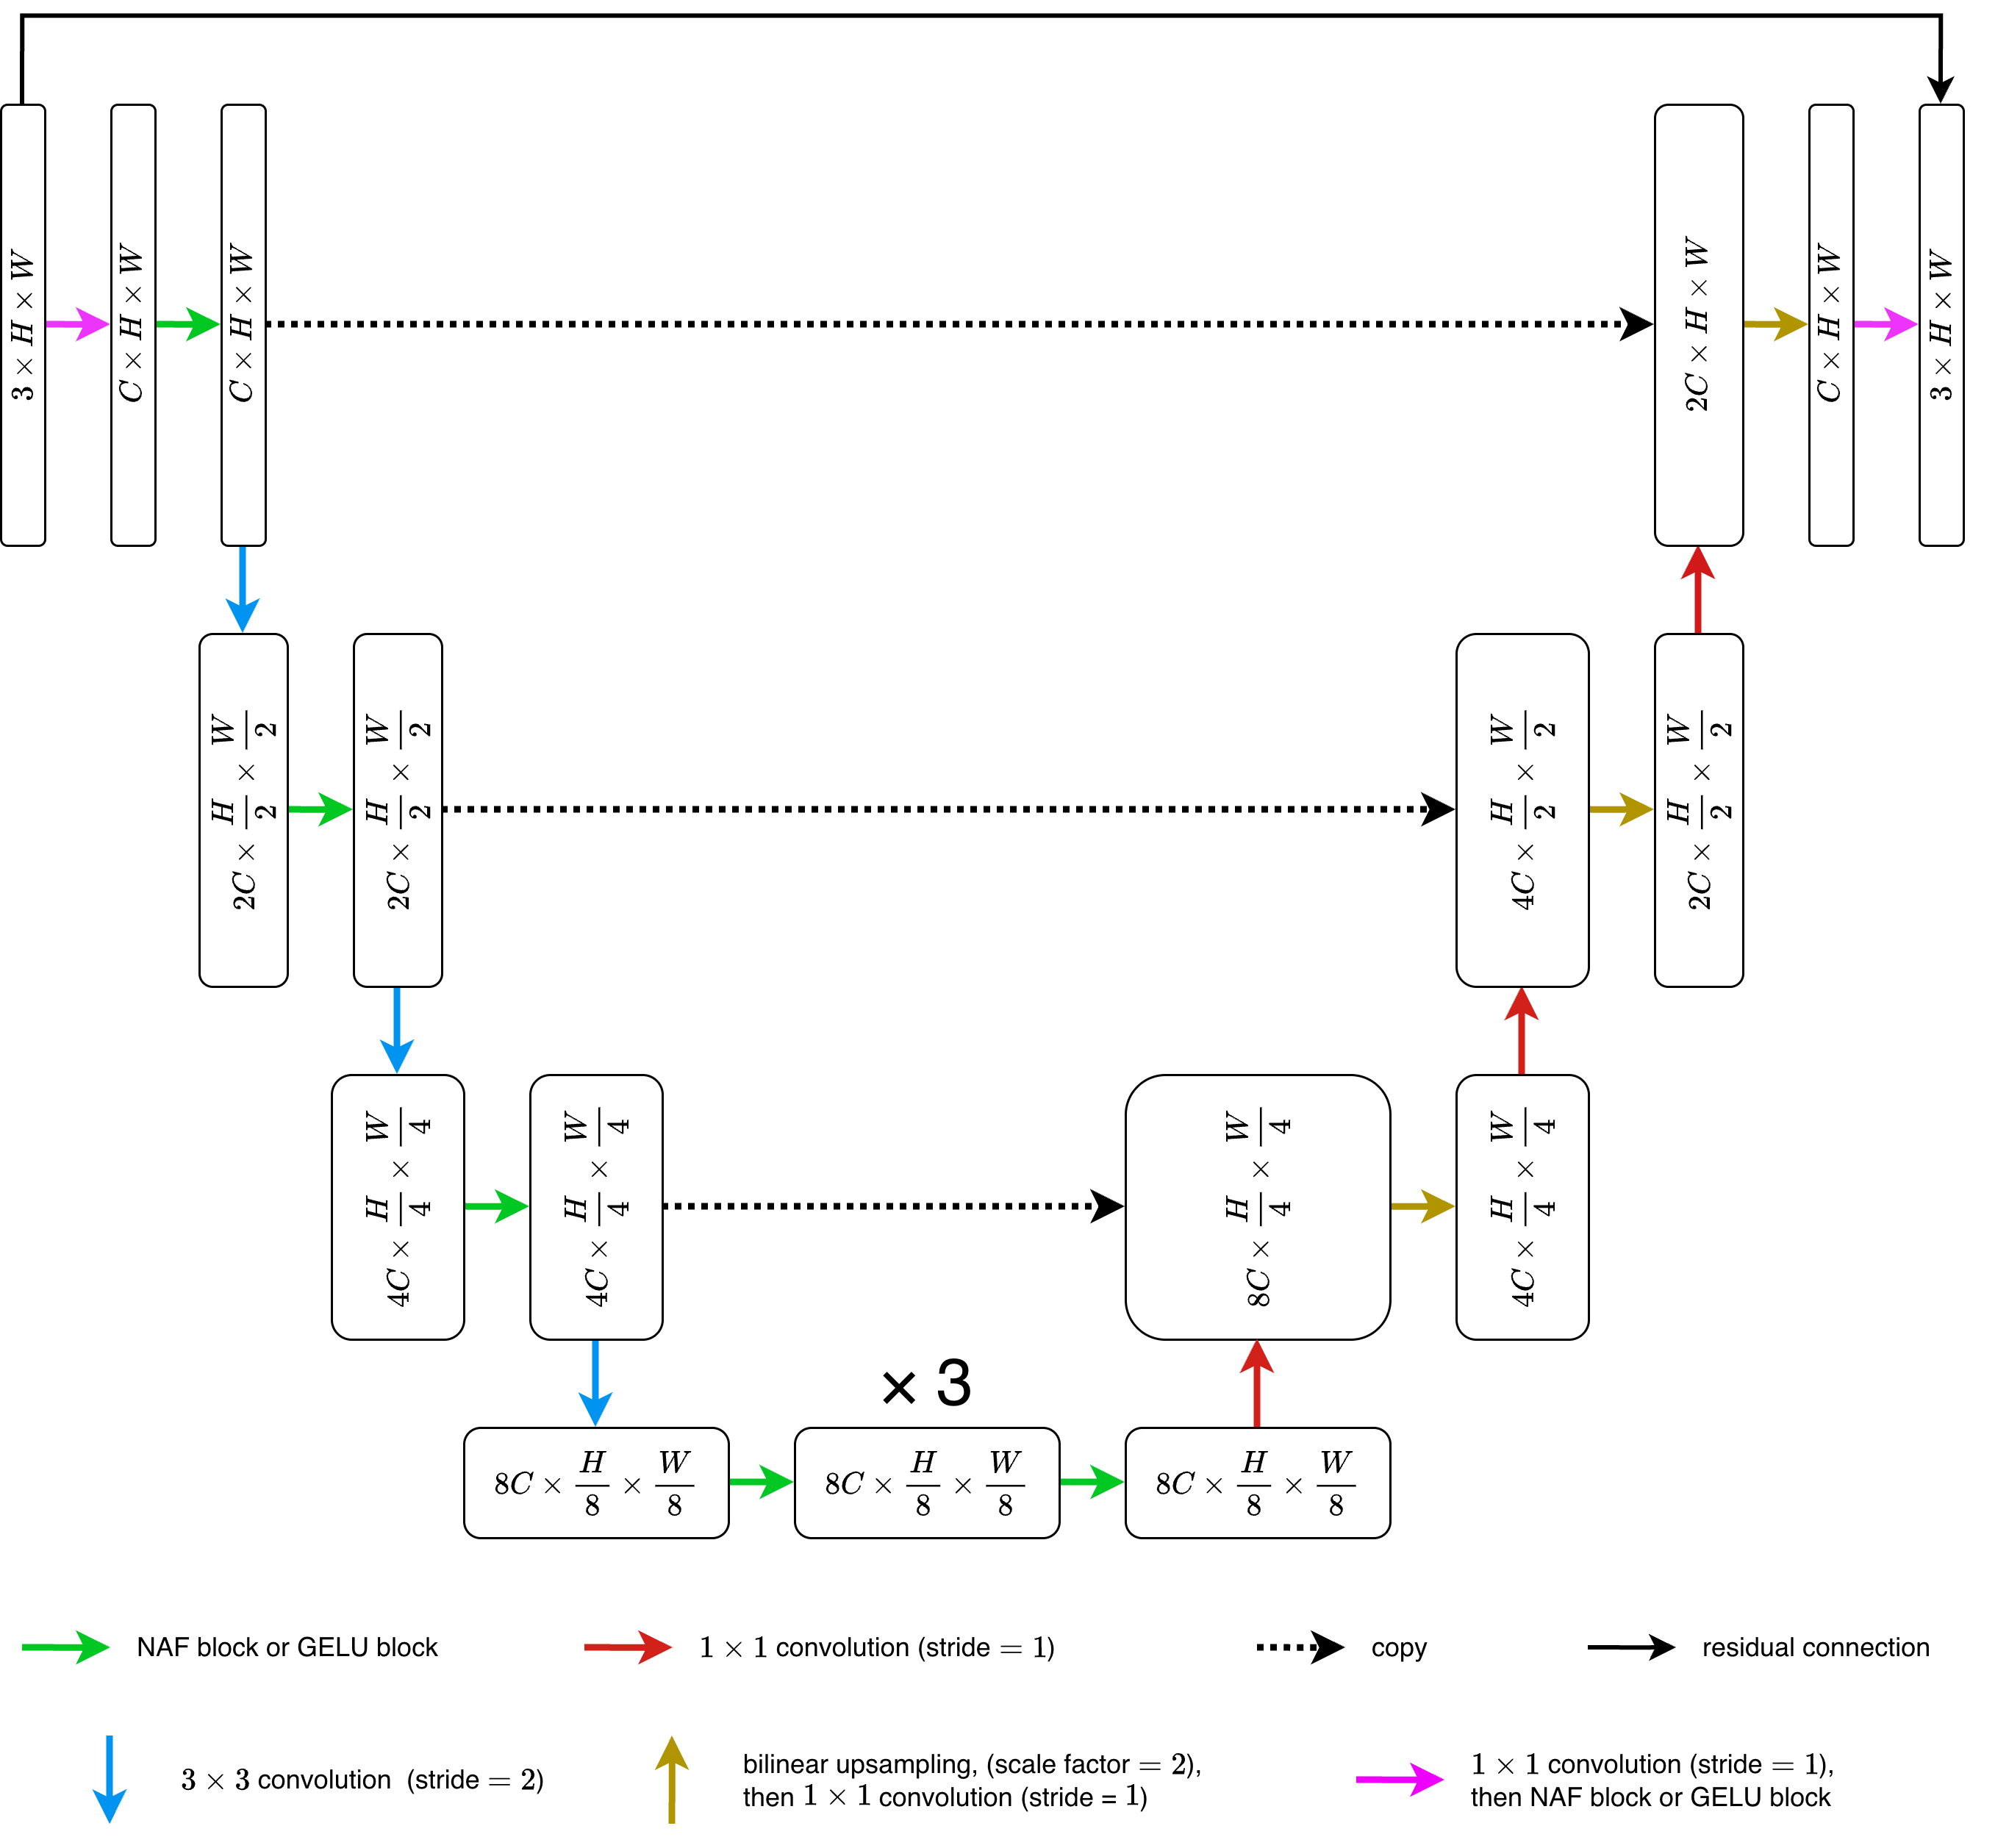
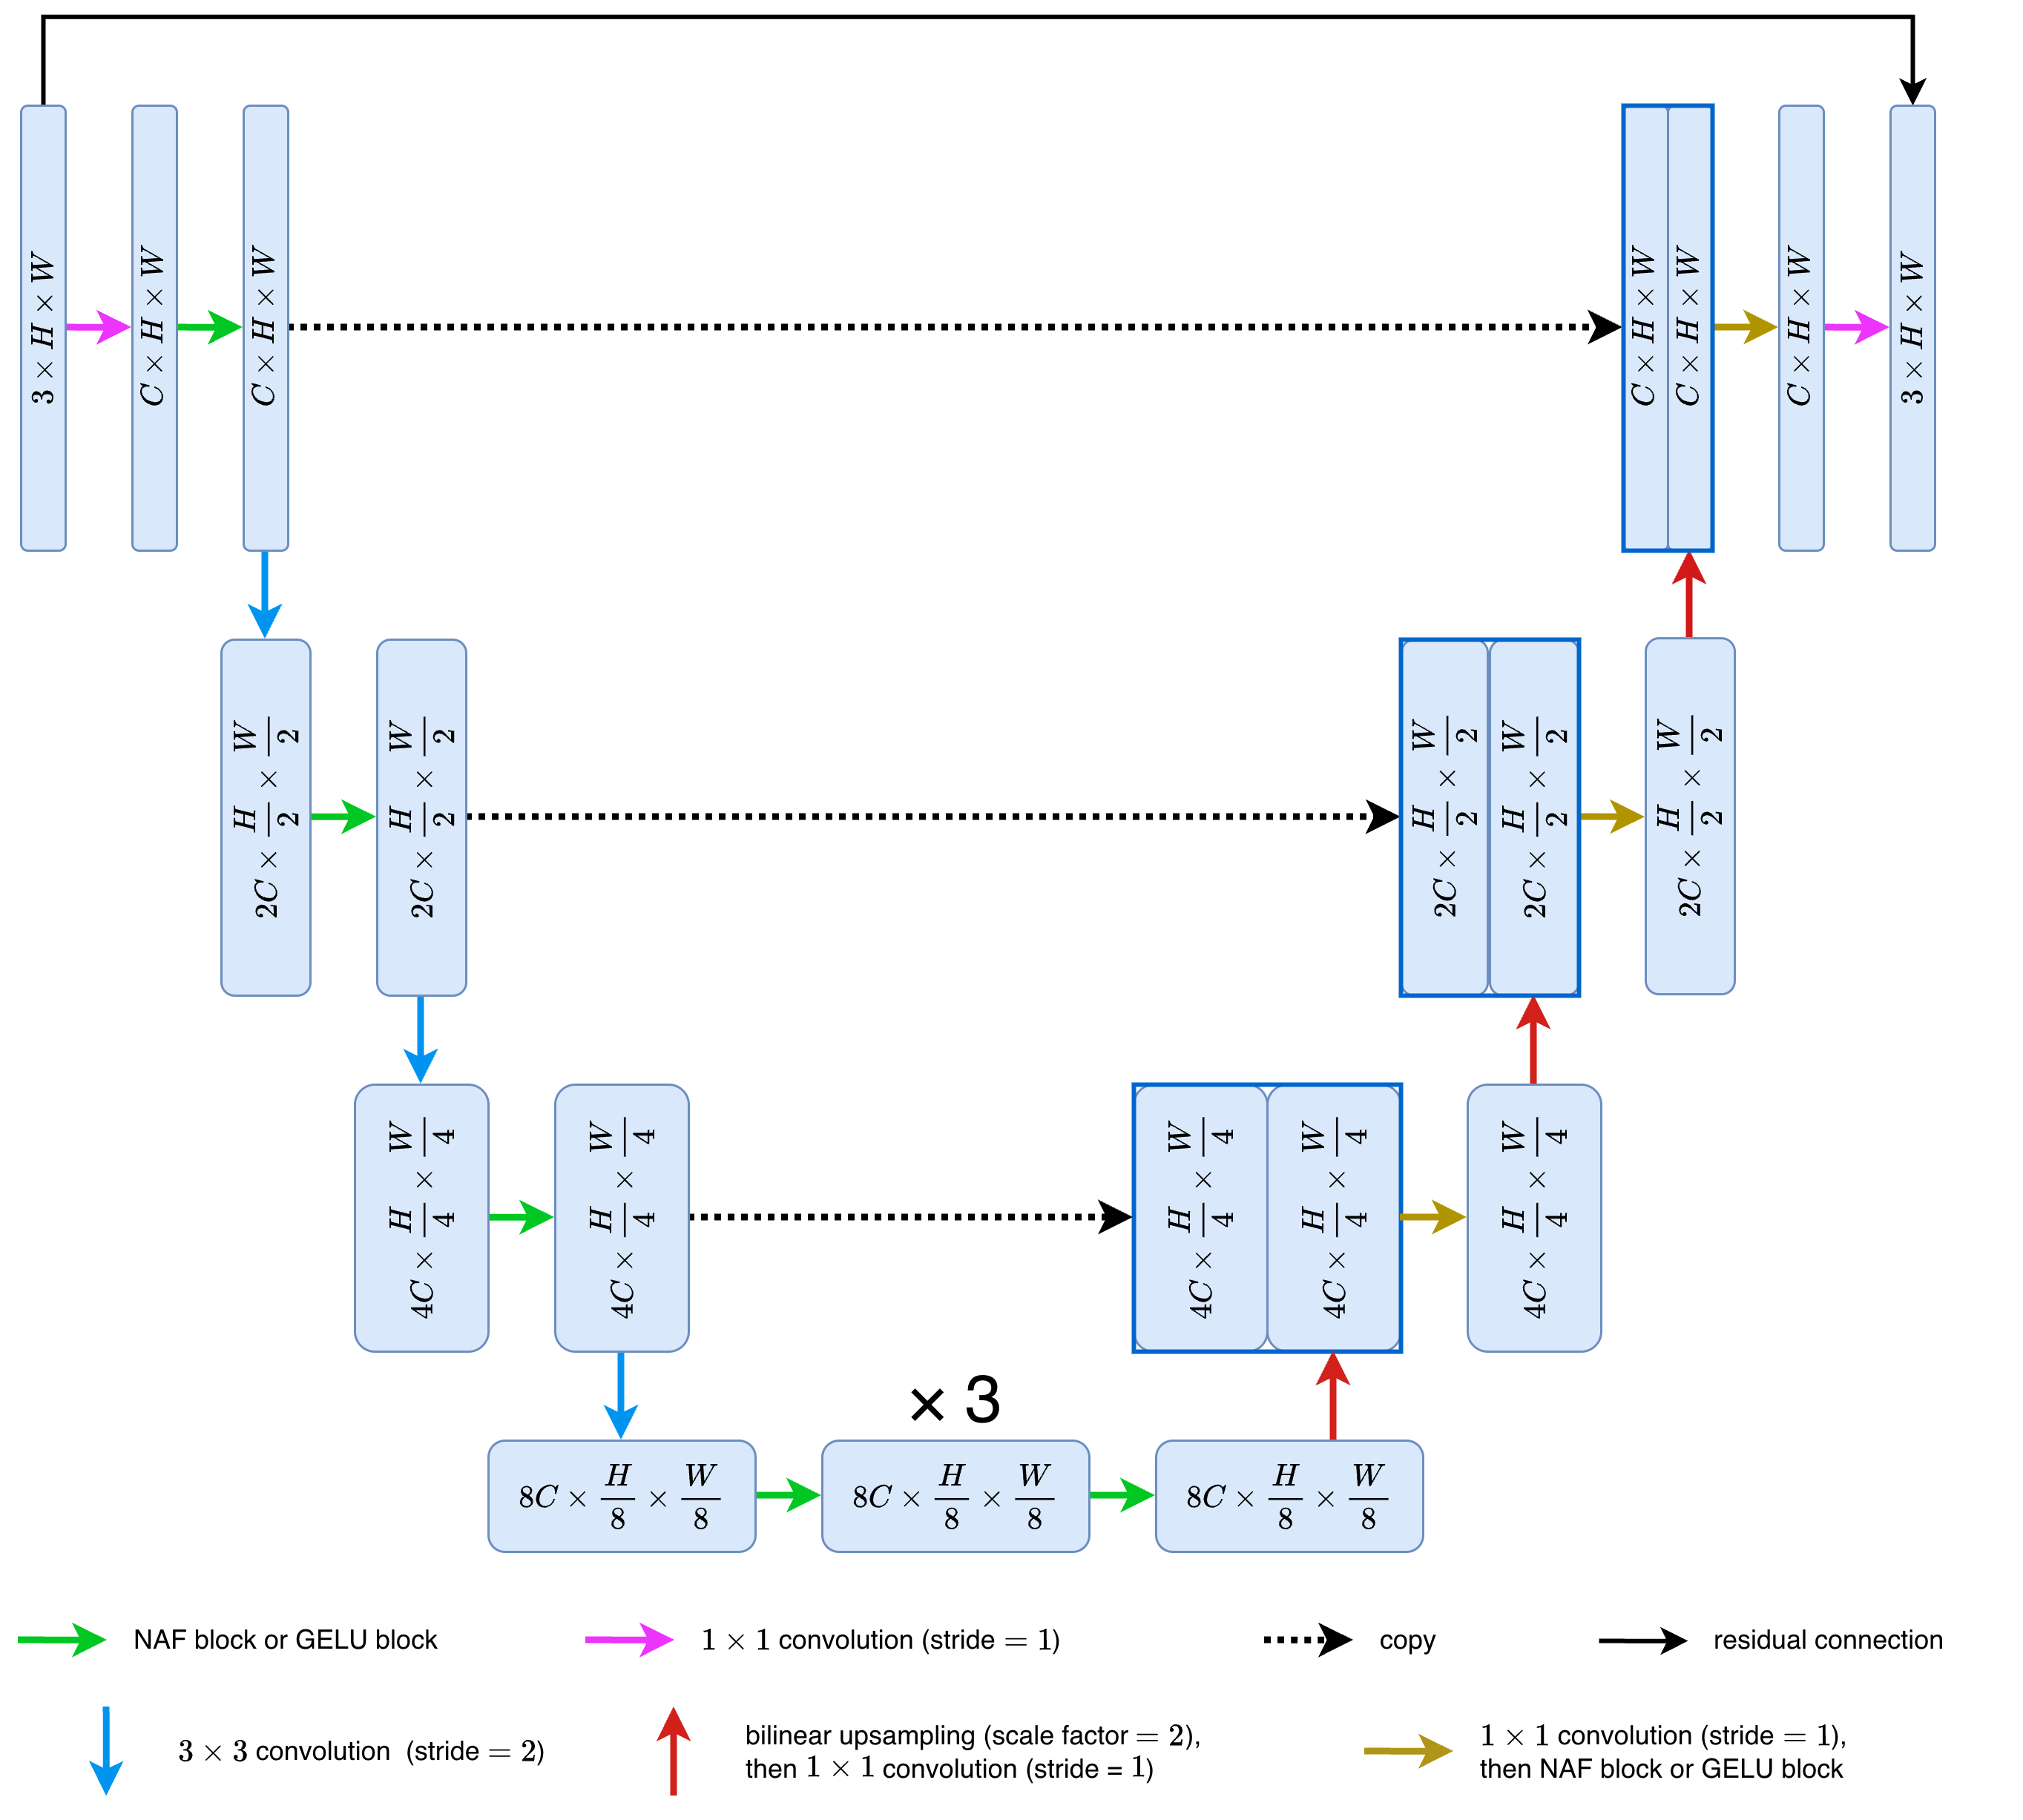
update

diff --git a/deblurring/index.html b/deblurring/index.html
@@ -197,10 +197,10 @@
                 (Note: both models experienced a very large increase SSIM and PSNR in the first epoch, so the first epoch is omitted in the graphs to make the comparison between models easier.)
             </p>
             <div style="text-align: center; margin: 20px 0;">
-                <img src="validation_ssim.svg" alt="validation ssim graph " style="max-width: 80%; height: auto; border-radius: 8px;" />
+                <img src="validation_ssim.png" alt="validation ssim graph " style="max-width: 80%; height: auto; border-radius: 8px;" />
             </div>
             <div style="text-align: center; margin: 20px 0;">
-                <img src="validation_psnr.svg" alt="validation psnr graph " style="max-width: 80%; height: auto; border-radius: 8px;" />
+                <img src="validation_psnr.png" alt="validation psnr graph " style="max-width: 80%; height: auto; border-radius: 8px;" />
             </div>
             <p>
                 Below are samples of the outputs of each model for visual inspection. Samples A and B are \(256 \times 256\) test images that were fed into the models. 